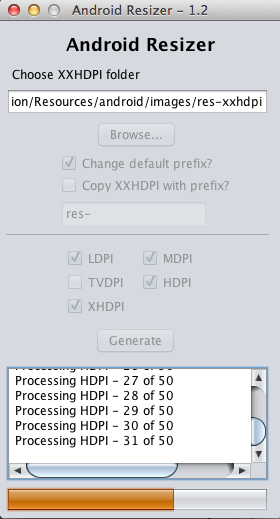
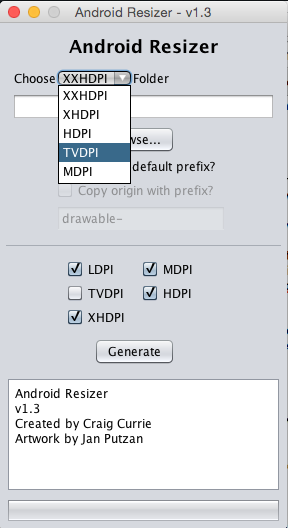
Updated readme and screenshot

diff --git a/readme.md b/readme.md
@@ -24,40 +24,22 @@ _NOTE: You may want to back up your assets before running this tool. In the unli
 
 ####Changelog:-
 
-#####1.0
-- Initial Release
-- Scale all PNG images in an XXHDPI folder and save them to all lower DPI's (L, M, TV, H, XH)
+#####1.3
+Been a bit lazy recently with this, but the project is progressing!
+You should find v1.3 in the releases tab, ready to go.
 
+- Added directory serialization (The program now remembers your last used input directory)
+- Added input density choice via combobox
+- Fixed TVDPI scaling (checkbox is still unselected by default, as TVDPI is rarely used)
+- Fixed rare "Directory is null!" bug
+- "Copy XXHDPI with prefix" is now "Copy origin prefix", and works with all densities.
+- Added notification beep on resizing completion
+- Minor misc. bugs
 
-
-#####1.0.1
-- Added multi-threading to provide user feedback while processing images
-- Added ability to choose which DPI outputs to generate
-- Fixed transparency issues
-
-
-
-#####1.1
-- Added JPEG and GIF support (Animation not currently supported)
-- Improved scaling operations
-
-
-
-#####1.1.1
-- Stability improvements
-- Output improvements
-- Fixed progress bar bug
-
-
-
-#####1.2
-- Added custom prefix for use with non-standard Android Resource structures (Titanium, PhoneGap etc.)
-- Added some tooltips
-- Altered some text output to fit with the new prefixing feature
-- Added XXHDPI Copy
-- Cleaned up variable names
-- Disable/enable all controls when sizing is in progress/complete
-
+#####1.2.2
+- Fixed XXHDPI copying scaling down to ldpi
+- Fixed some output
+- Fixed scaling issue for images with no alpha channel 
 
 #####1.2.1
 - Added EXE generation
@@ -68,23 +50,44 @@ _NOTE: You may want to back up your assets before running this tool. In the unli
 - Disable/enable directory field when sizing is in progress/complete
 - Removed some unused files/code
 
-#####1.2.2
-- Fixed XXHDPI copying scaling down to ldpi
-- Fixed some output
-- Fixed scaling issue for images with no alpha channel 
+#####1.2
+- Added custom prefix for use with non-standard Android Resource structures (Titanium, PhoneGap etc.)
+- Added some tooltips
+- Altered some text output to fit with the new prefixing feature
+- Added XXHDPI Copy
+- Cleaned up variable names
+- Disable/enable all controls when sizing is in progress/complete
+
+#####1.1.1
+- Stability improvements
+- Output improvements
+- Fixed progress bar bug
+
+#####1.1
+- Added JPEG and GIF support (Animation not currently supported)
+- Improved scaling operations
+
+#####1.0.1
+- Added multi-threading to provide user feedback while processing images
+- Added ability to choose which DPI outputs to generate
+- Fixed transparency issues
+
+#####1.0
+- Initial Release
+- Scale all PNG images in an XXHDPI folder and save them to all lower DPI's (L, M, TV, H, XH)
+
+
 
 ######PLANNED FEATURES
 - iOS support
 - Single file support
-- Scale from other densities
+- ~~Scale from other densities~~
 - Basic upscaling
 - Updated design
 - SVG support
 - Seperate source/destination folders
 - Multiple project configurations
-- XXXHDPI support
-- Scale from other densities
-- 9-patch support
+- XXXHDPI support- 9-patch support
 - Generation Wizard
 - Build-step integration
 
